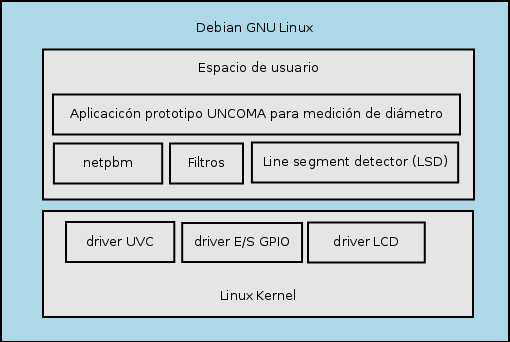
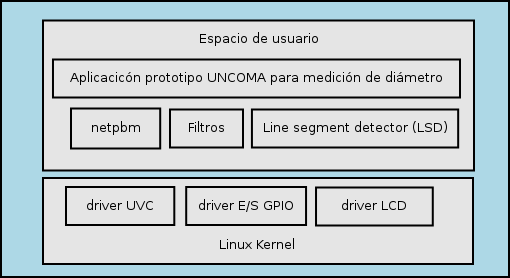
varios cambios menores

diff --git a/cacic2016/typeinst.tex b/cacic2016/typeinst.tex
@@ -148,25 +148,13 @@ El microscopio es de 400 ampliaciones, modificado y calibrado. Funciona con una 
 El mecanismo de gatillo realiza varias tareas en un único paso. Al gatillar, el operador prensa el acrílico opuesto a la óptica del microscopio, lo que produce que las fibras sean enfocadas correctamente y queden firmes. Además, al final del accionar del gatillo, se activa un interruptor digital. Este interruptor envía una señal al hardware embebido, a través de un puerto de E/S digital que dispara un evento en el sistema y activa el software de obtención de imágenes.
 En ese momento, el software en el hardware embebido solicita una captura de imagen digital de las fibras que el microscopio tiene enfocadas y estancadas, para luego ser procesada. La imagen digital es obtenida desde el dispositivo portátil a través de una interfaz USB 2.0, la cual interconecta ambos componentes (el dispositivo de mano y el hardware embebido).
 
-El hardware embebido es el sistema 
-que analiza la imagen digital y reporta los resultados.
-Un diagrama de bloques del hardware embebido es mostrado en la Figura 1.2
+El hardware embebido es el sistema en donde se ejecuta el software
+que analiza la imagen digital y reporta los resultados. Contiene un SOC principal Allwinner A10, con una CPU ARM de 700Mhz. La memoria principal (RAM) es de 512MB, y tambien cuenta con una interfaz de memoria SD en donde se ha incorporado una tarjeta microSD de 2GB. El bootloader del SOC carga, al momento de reset, el sistema
+operativo desde la memoria microSD, y luego el sistema operativo ejecuta
+la aplicación prototipo final.
+EL SOC Allwinner tambien cuenta, internamente, con dispositivos de E/S (GPIO), un puerto USB 2.0, y una interfaz Wireless WiFi 802.11b/g/n.
 
-
-
-Block Diagram
-Features
-CPU ARM Cortex™-A8 1.5GHz I
-Memory 512MB de 32-bit DDR3 RAM
-4GB NAND FLASH
-WiFi 802.11b/g/n network card. 
-4 SDIO interfaces (SD 3.0, UHI class)
-USB 2.0
-GPIO
-
-FOTO DEL MICROSCOPIO Y EL HARDWARE EMBEBIDO
-
-La facilidad de manejo y peso del dispositivo portátil de mano posibilita que las muestras de fibras a ser procesadas no deban ser preparadas de antemano. El operador puede tomar capturas directamente sobre el animal en campo.
+El tamaño del hardware embebido es de 10cmx4cmx3cm y el del dispositivo portatil es de 20cmx20cmx5cm. El peso total de todo el equipamiento es de 900gr. Estas caracterísitcas posibilitan que el operador pueda utilizar el equipamiento a mano alzada, tomando capturas de las muestras de fibra directamente sobre el animal en campo.
 
 
 \subsection{Arquitectura de Software}
@@ -175,7 +163,7 @@ La facilidad de manejo y peso del dispositivo portátil de mano posibilita que l
 La arquitectura de software puede observarse en la Figura~\ref{fig:arqsoft}.
 \begin{figure}
 \centering
-\includegraphics[height=6cm]{arqsoft}
+\includegraphics[height=5cm]{arqsoft}
 \caption{Componentes de la arquitectura del software.}
 \label{fig:arqsoft}
 \end{figure}
@@ -272,7 +260,8 @@ Toda la estadística es almacenada en el dispositivo, y puede ser extraída y vi
 \begin{figure}
 \centering
 \includegraphics[height=7cm]{captura2}
-\caption{Resultado visual de medición de diámetro presentado por la interfaz software. A la izquierda se observa la imagen original obtenida desde el microscopio. A la derecha una representación del resultado del algoritmo de medición. Los segmentos en color rojo son mediciones finales obtenidas por el algoritmo. Esta representación visual es muy útil para corroborar manualmente si hubieron mediciones erróneas del software (por ejemplo, fuera de las fibras).}
+\caption{resultado}
+%\caption{Resultado visual de medición de diámetro presentado por la interfaz software. A la izquierda se observa la imagen original obtenida desde el microscopio. A la derecha una representación del resultado del algoritmo de medición. Los segmentos en color rojo son mediciones finales obtenidas por el algoritmo. Esta representación visual es muy útil para corroborar manualmente si hubieron mediciones erróneas del software (por ejemplo, fuera de las fibras).}
 \label{fig:captura2}
 \end{figure}
 
